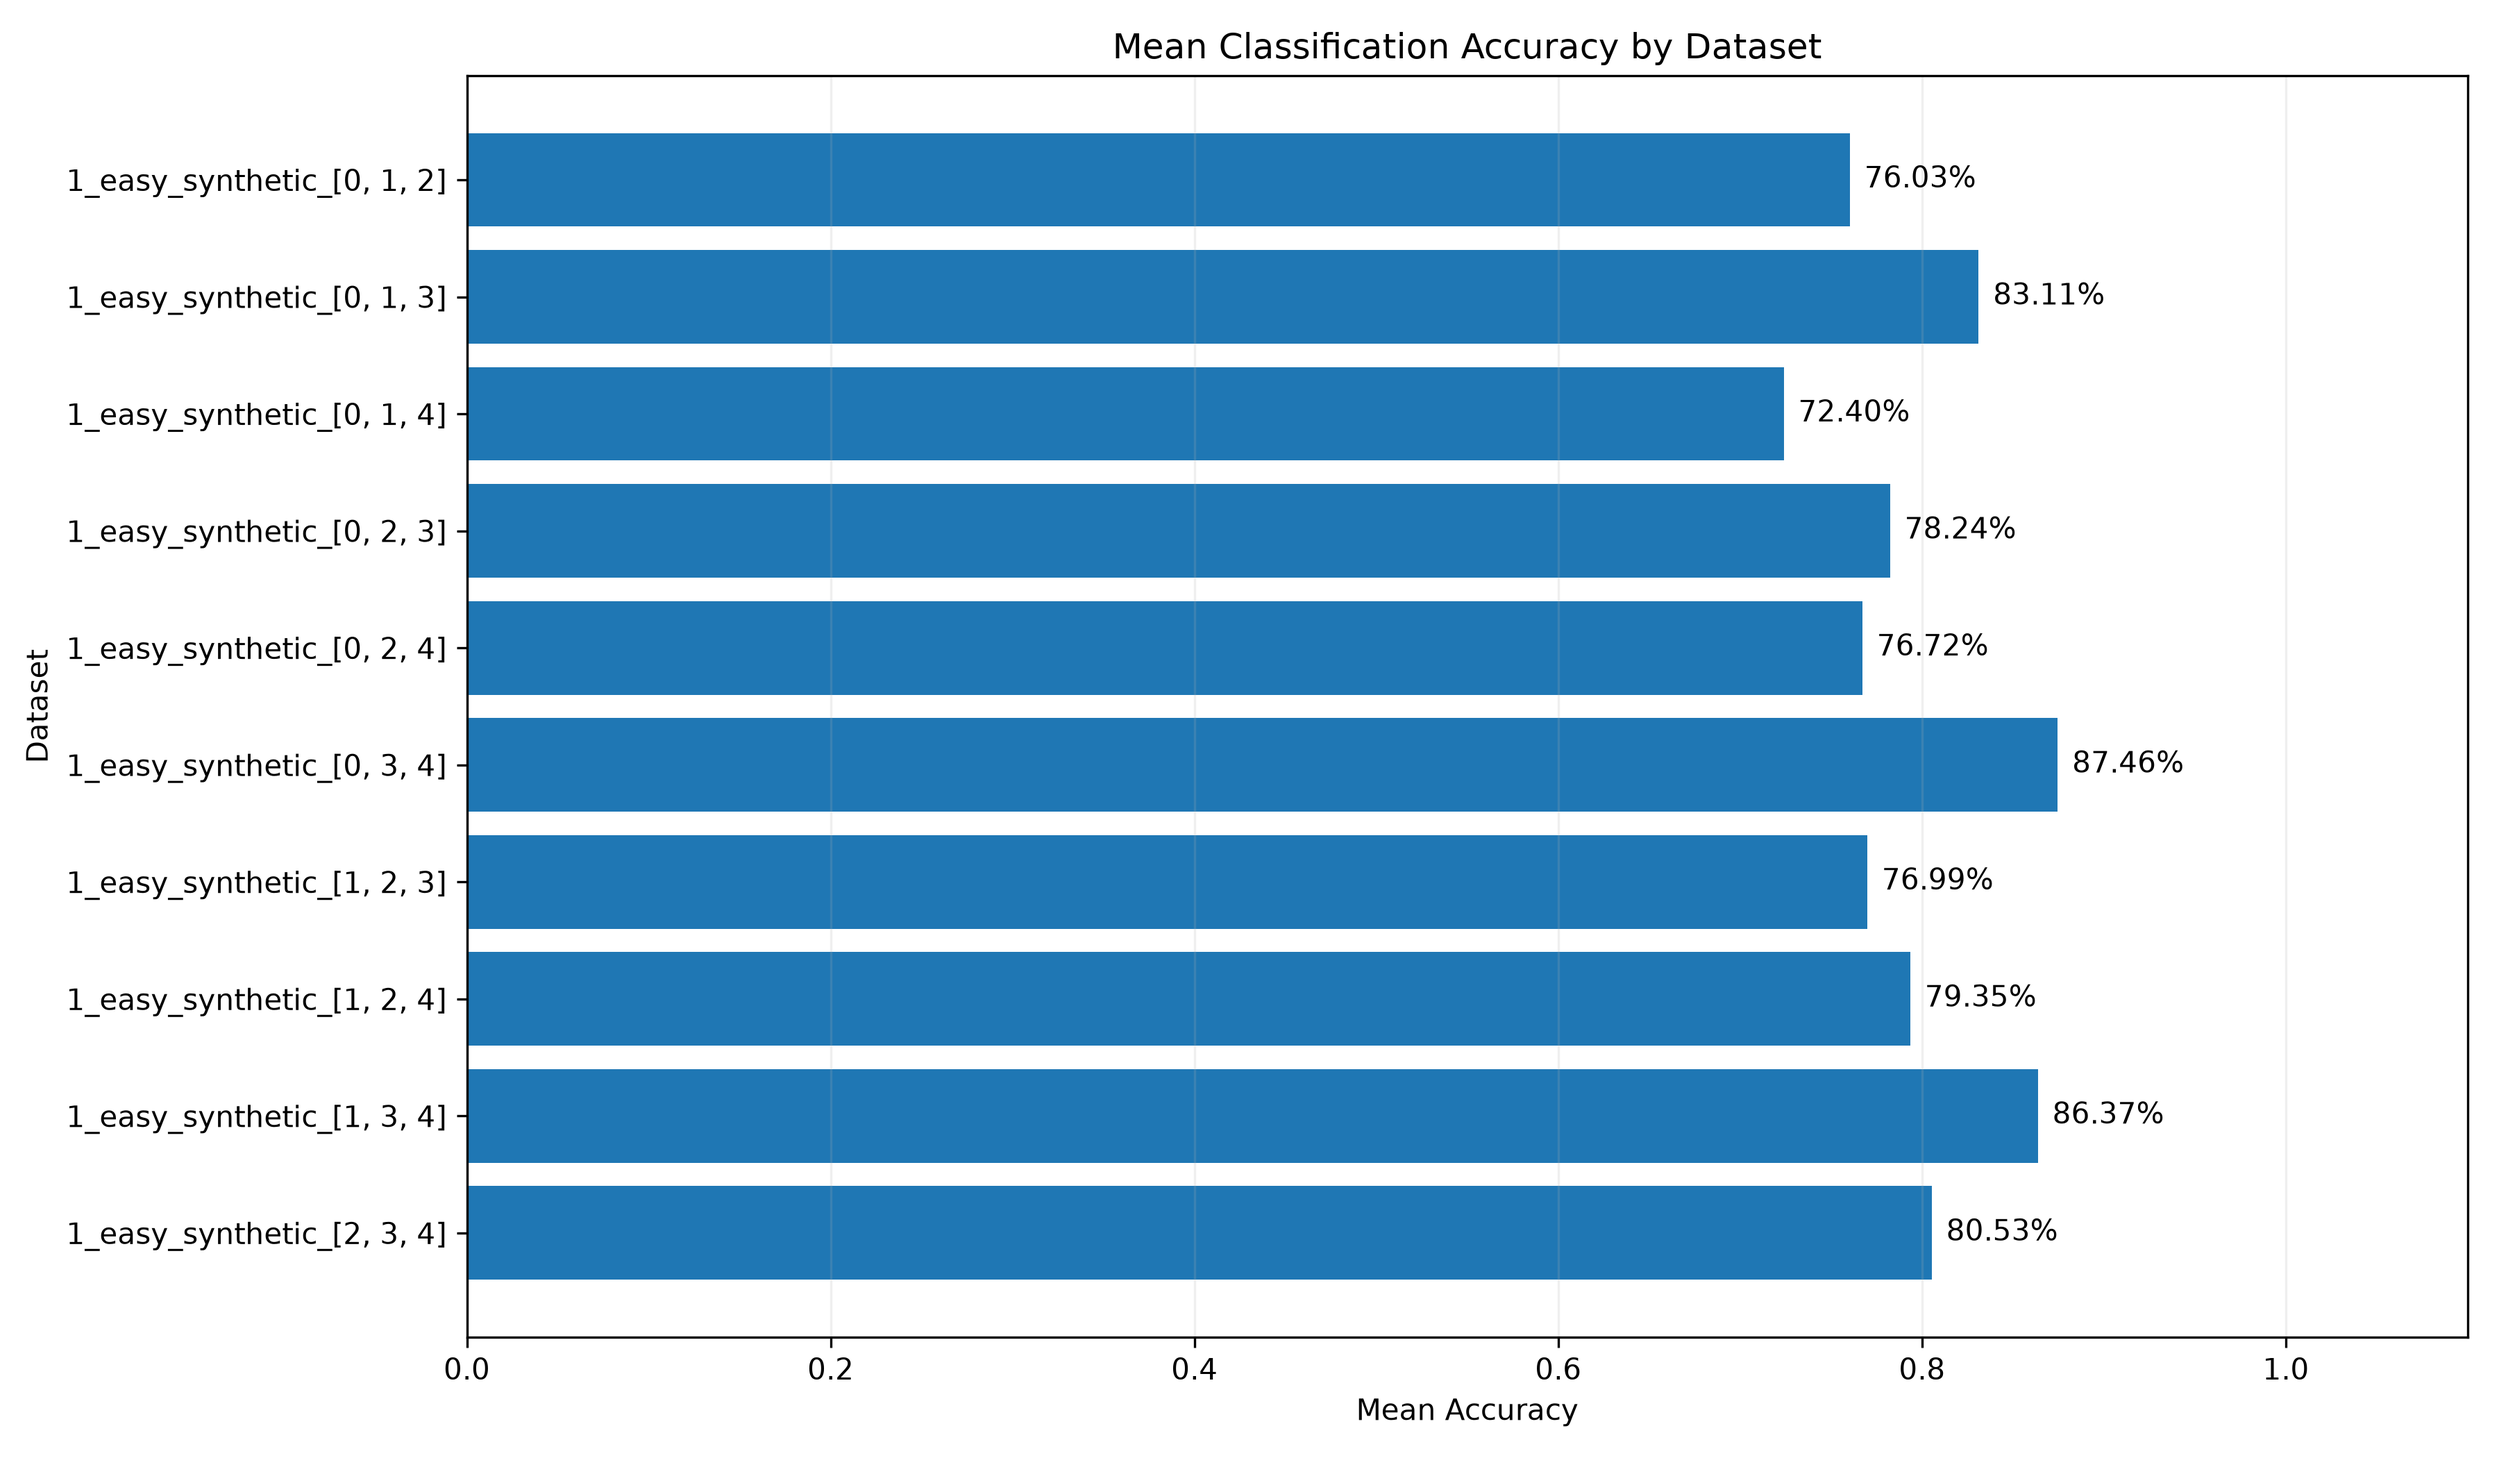
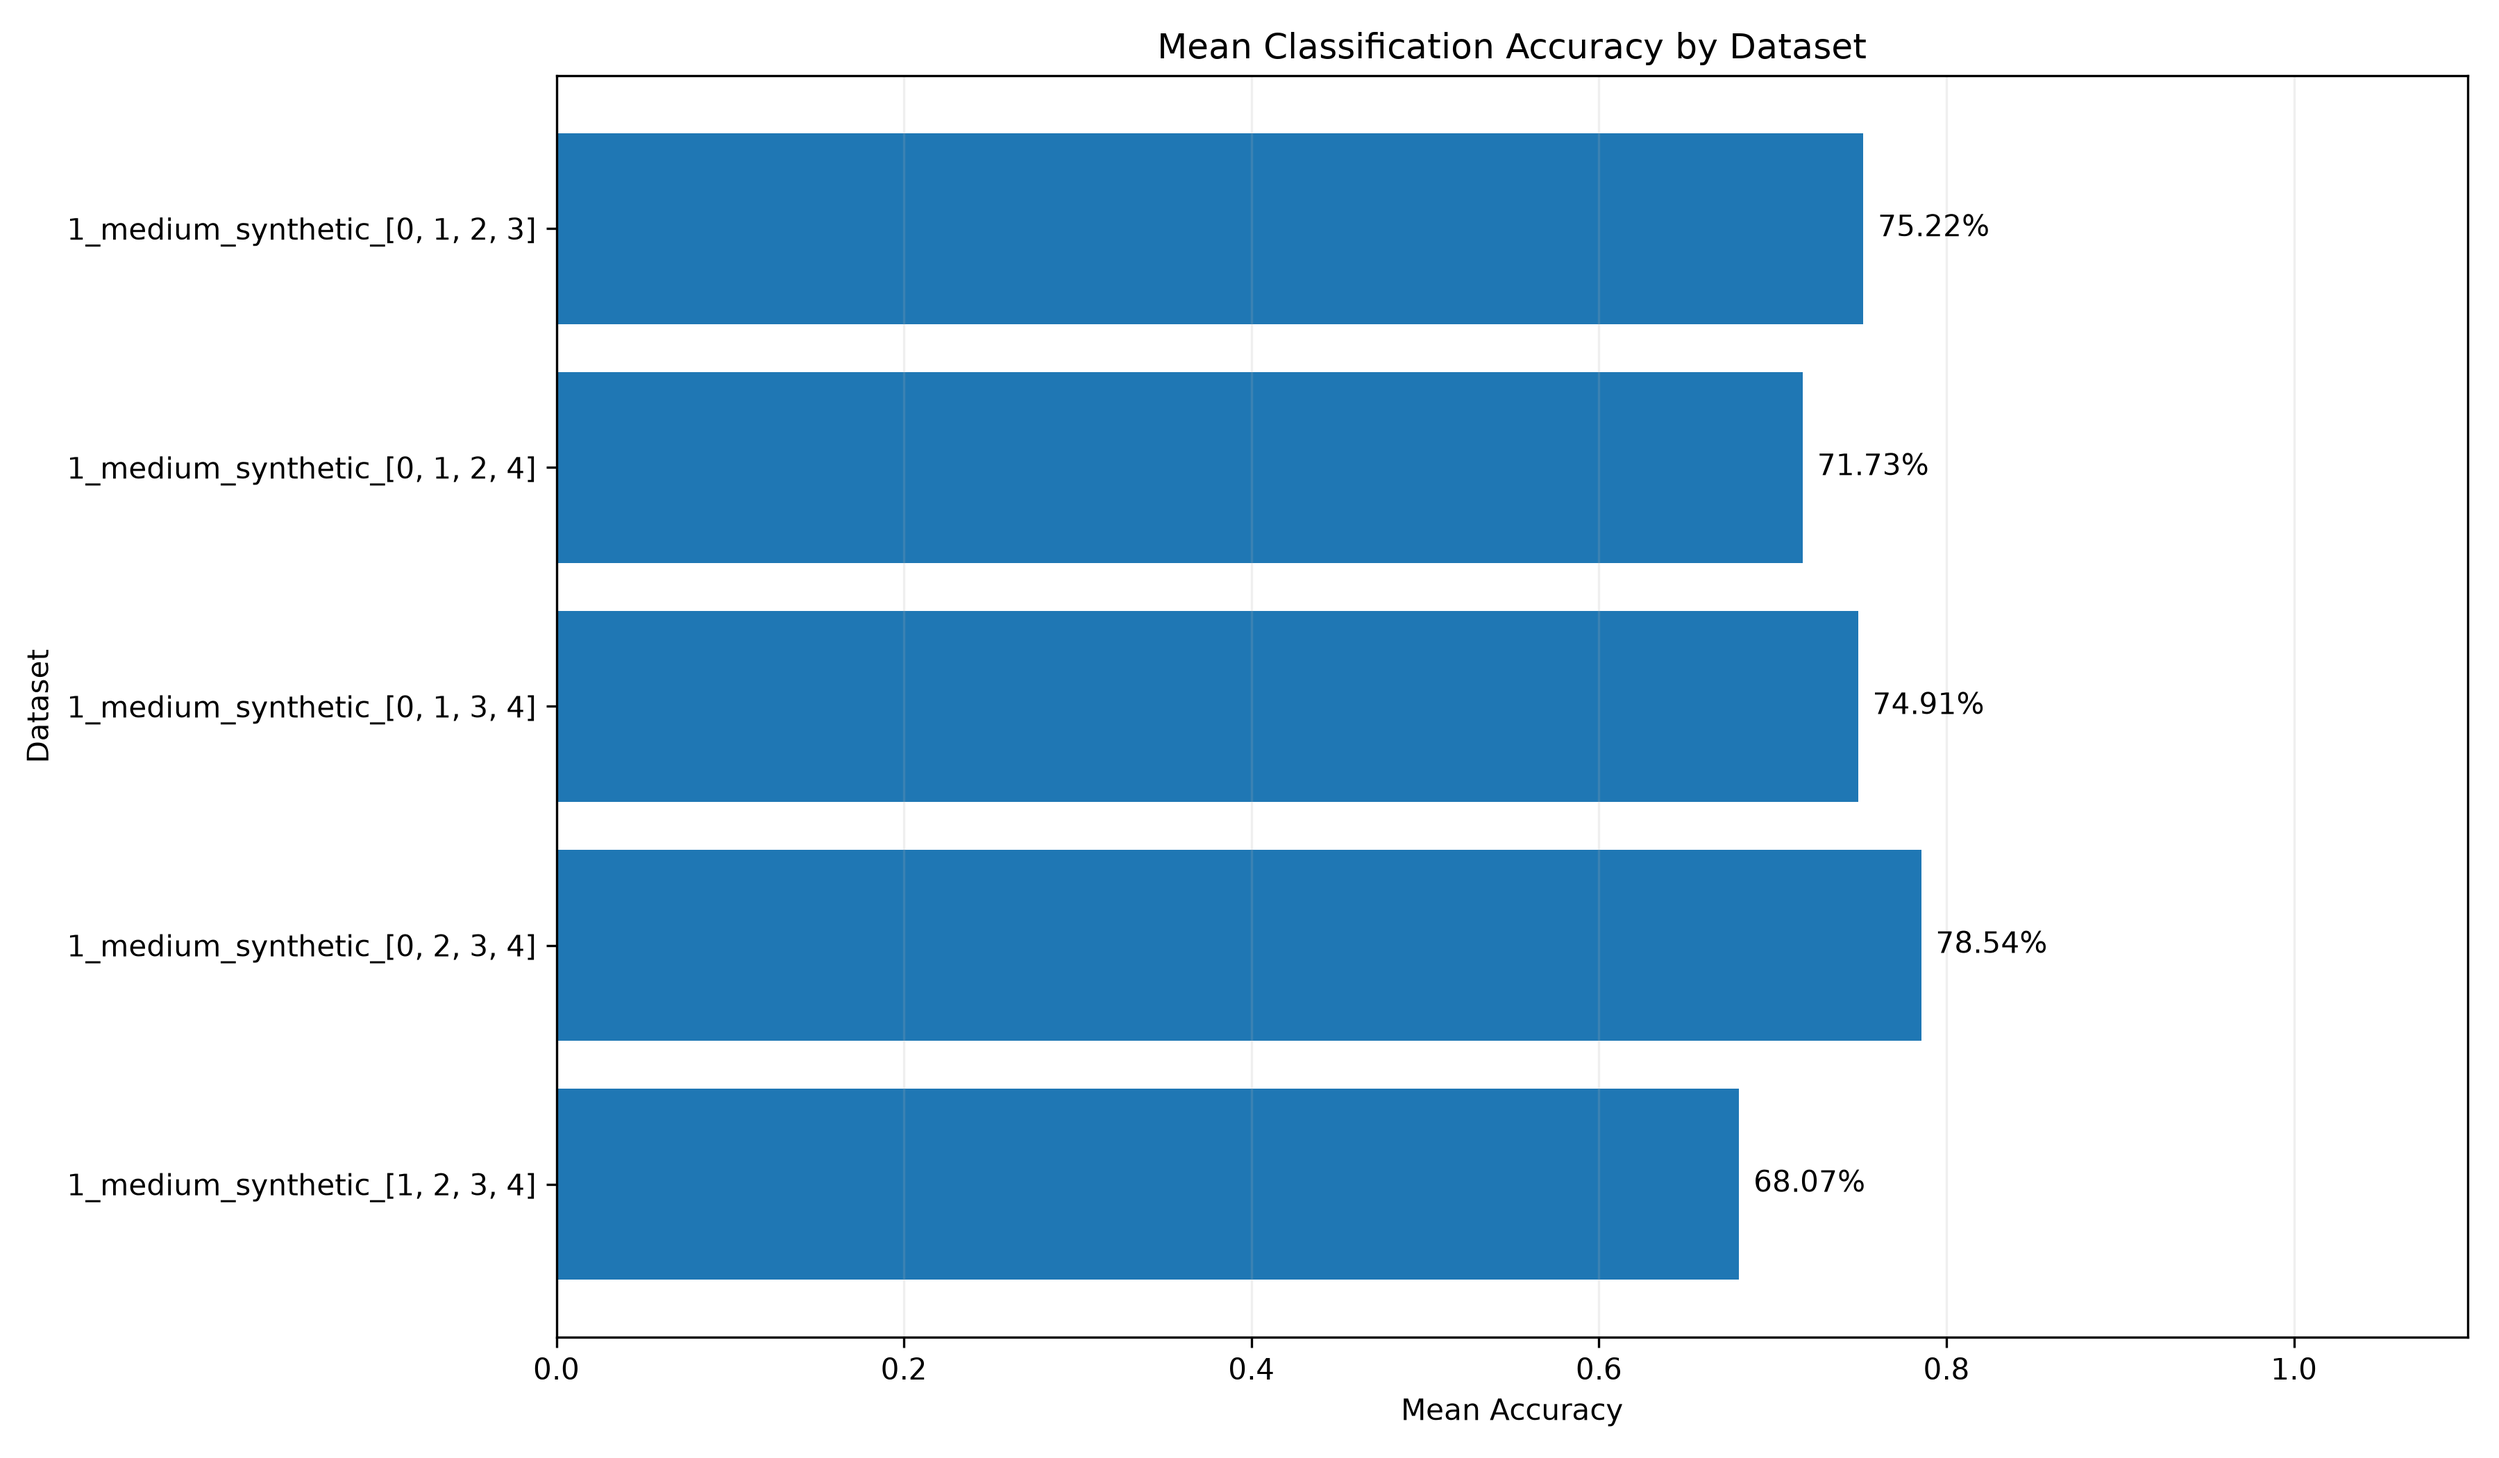
Added finding best features experiment

diff --git a/test.py b/test.py
@@ -121,10 +121,11 @@ def create_latex_table(results, output_file='results/classical_baselines_results
         f.write("}\n")
         f.write("\\end{table*}\n")
 
-def calculate_means(filename = "means.csv", subfolder = None):
+def calculate_means(filename="means.png", subfolder=None):
     folder = Path("results")
     if subfolder is not None:
         folder = Path(f"results/{subfolder}/")
+
     metric = "Accuracy"
     results = []
 
@@ -144,6 +145,20 @@ def calculate_means(filename = "means.csv", subfolder = None):
 
     summary = pd.DataFrame(results)
 
+    # Sortowanie malejąco według średniej
+    summary = summary.sort_values(
+        by="Mean",
+        ascending=False
+    ).reset_index(drop=True)
+
+    # Wyświetlenie posortowanych wyników
+    print(f"\n--- SORTED MEAN ACCURACY FOR {subfolder} ---")
+    print(summary.to_string(
+        index=False,
+        formatters={"Mean": lambda x: f"{x:.4f} ({x:.2%})"}
+    ))
+
+    # Wykres
     plt.figure(figsize=(12, 7))
 
     bars = plt.barh(
@@ -165,14 +180,15 @@ def calculate_means(filename = "means.csv", subfolder = None):
 
     plt.grid(axis="x", alpha=0.2)
     plt.tight_layout()
-    plt.savefig(f"{folder}/{filename}", dpi=300)
-    print(f"{folder}/{filename}")
+    plt.savefig(folder / filename, dpi=300)
     plt.show()
+
+    return summary
 
 
 
 if __name__ == "__main__":
-    test = True
+    test = False
     if test:
         verbose = False
         easy_four_1 = {
@@ -283,9 +299,10 @@ if __name__ == "__main__":
             print(f"\n--- AVERAGE METRICS OVER ALL SEEDS FOR {test_object["dataset_name"]}, ELAPSED TIME {end_time:.2f} s, FEATURES {test_object["target_features"]} ---")
             print(results)
     else:
-        mode = "easy_three"
-        mean_filename = "means.png"
+        modes = ["easy_three", "easy_four", "medium_three", "medium_four", "complex_three", "complex_four"]
+        for mode in modes:
+            mean_filename = f"{mode}_means.png"
 
-        calculate_means(mean_filename, mode)
+            calculate_means(mean_filename, mode)
         # create_latex_table(results, output_file='results/classical_baselines_results_avg_3vs4_5_features.tex')
 
